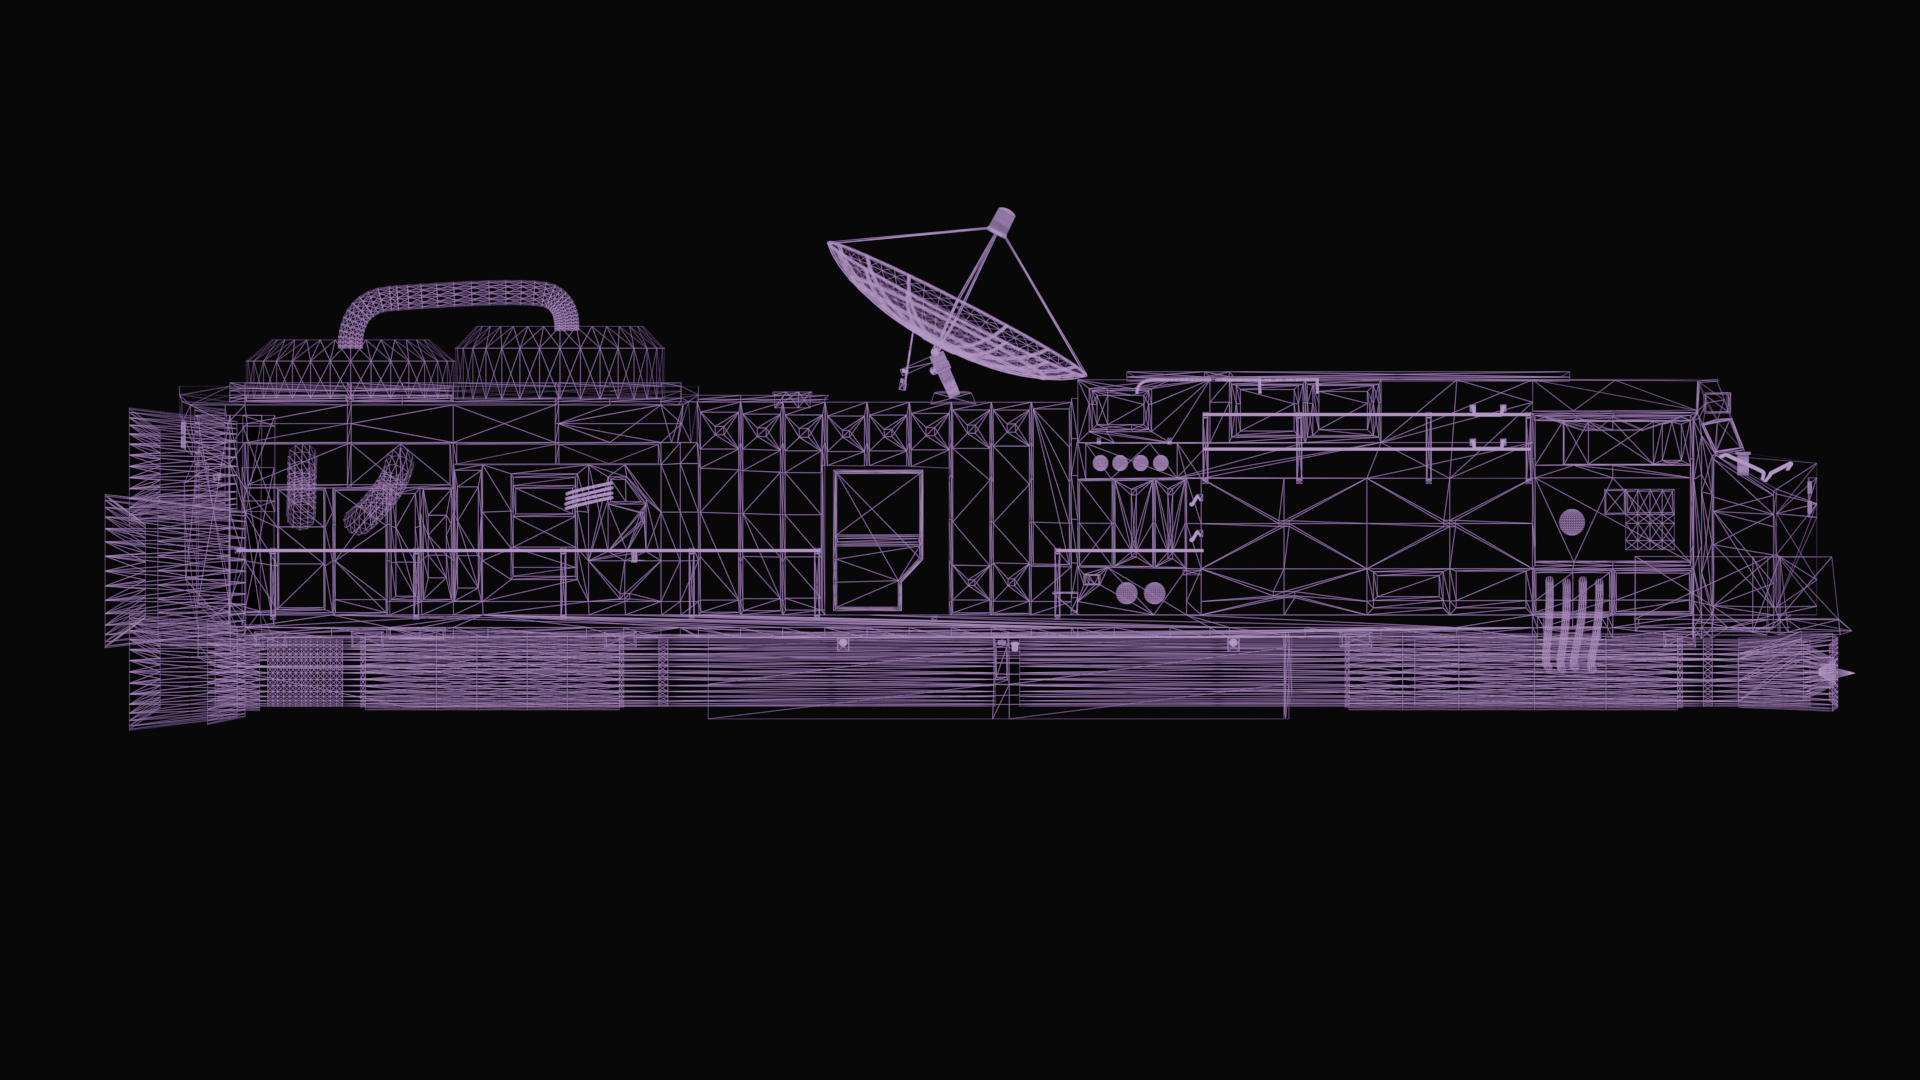
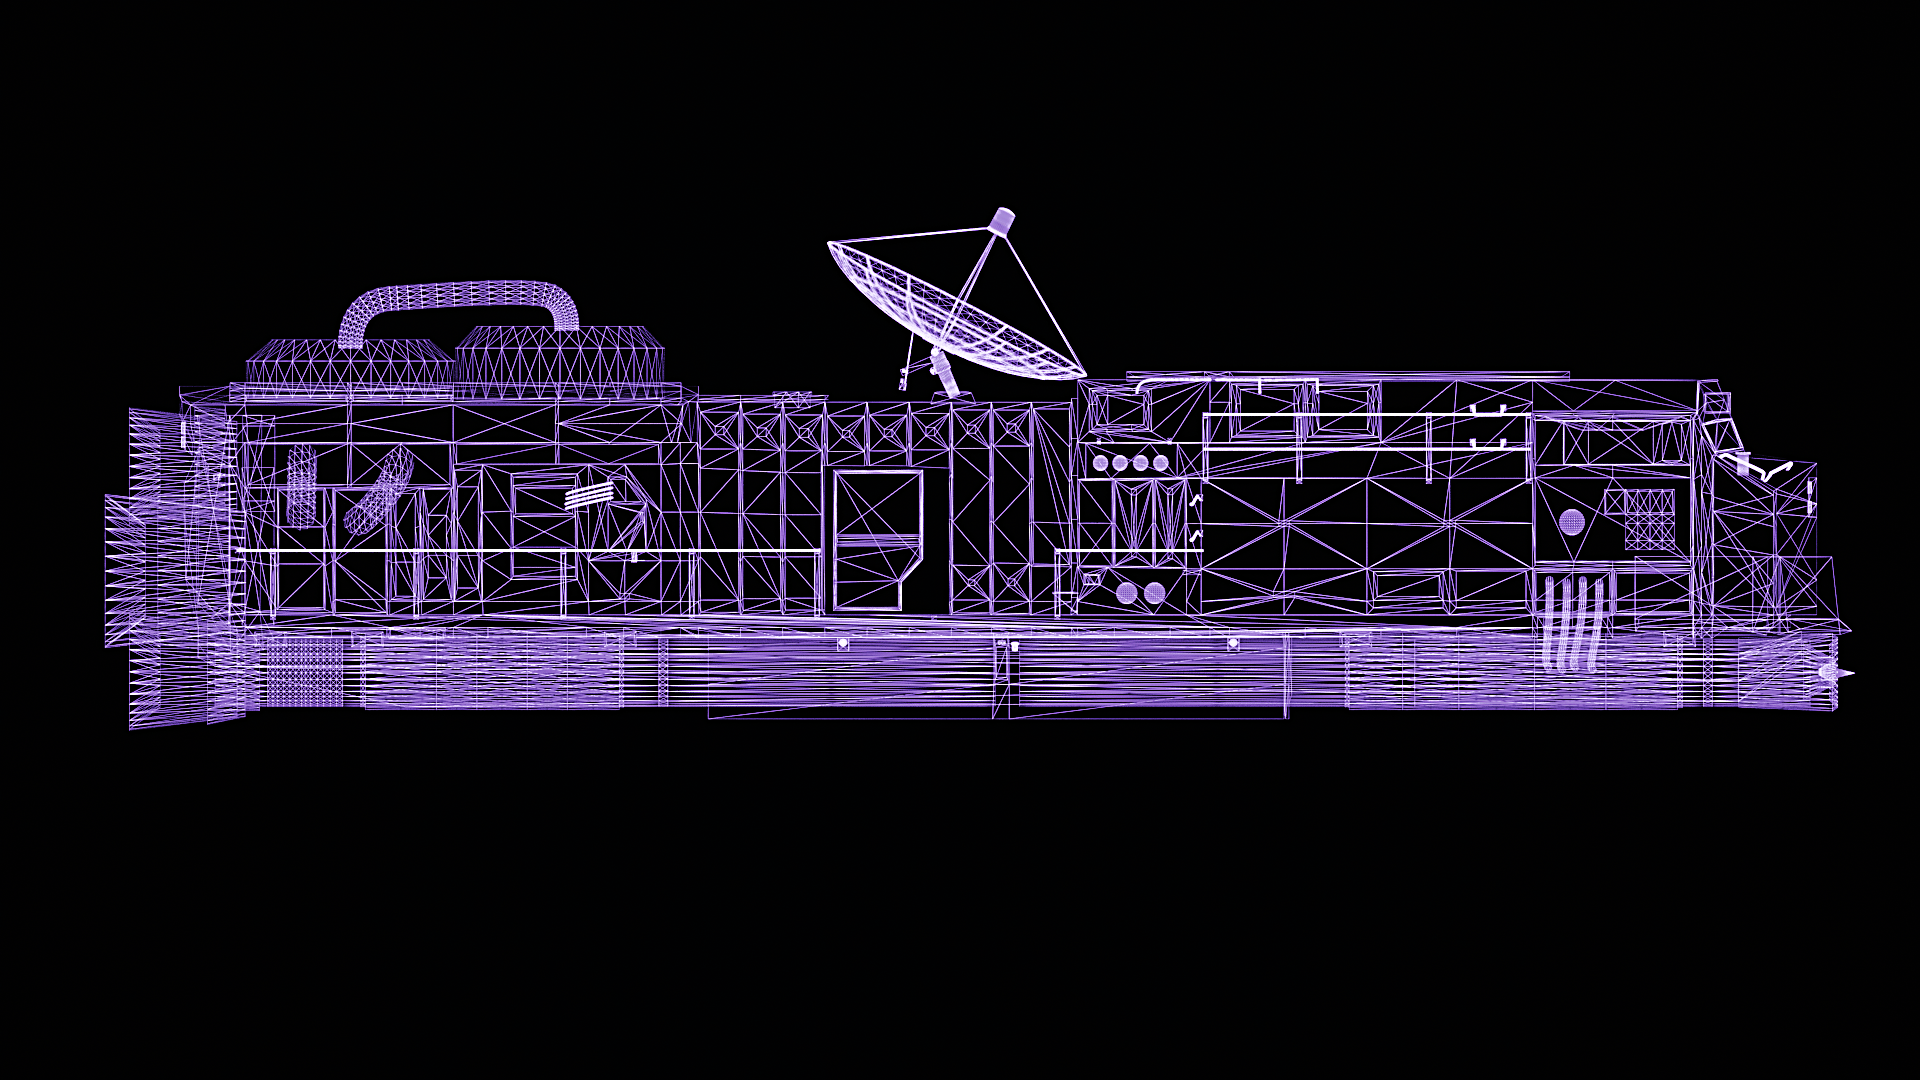
Fixes

Changed region(s): [[0.0312, 0.1833, 0.9688, 0.6722]]

diff --git a/src/components/Landing.jsx b/src/components/Landing.jsx
@@ -14,10 +14,13 @@ const pointsOfInterest = [
     { id: 1, x: '20%', y: '52%', tab: 'Move', title: 'Move', text: 'Move using [W] and [S] when inside the train', image: '/Landing/Walk.png' },
     { id: 2, x: '55%', y: '48%', tab: 'Interact', title: 'Interact', text: 'Interactable objects are highlighted when hovered', image: '/Landing/Interact.png' },
     { id: 3, x: '70%', y: '50%', tab: 'Explore', title: 'Explore', text: 'Discover details about me', image: '/Landing/Find.png' },
-    { id: 4, x: '85%', y: '45%', tab: 'Find', title: 'Find', text: 'Enter the train to explore its secrets', image: '/Landing/Explore.png' },
+    { id: 4, x: '85%', y: '45%', tab: 'Find', title: 'Find', text: 'Uncover the secrets hidden in the train', image: '/Landing/Explore.png' },
 ];
 
 const TABS = ['Move', 'Interact', 'Explore', 'Find'];
+const tabButtonBaseClass = 'tab-button w-full h-full border-2 transition-all duration-300 flex items-end justify-start bg-[var(--container-background)] rounded shadow-lg shadow-white/5';
+const tabActiveClass = 'border-[var(--selection-color)] text-[var(--selection-color)] button-glow tab-button--active';
+const tabInactiveClass = 'text-white border-white hover:border-[var(--selection-color)] hover:text-[var(--selection-color)]';
 
 // Hook to get window width for mobile detection
 const useWindowWidth = () => {
@@ -173,9 +176,26 @@ const Landing = () => {
                         {/* Cell 2,1: Tabs Area (Desktop) / Order 3 (Mobile) */}
                         <div className={`${isMobile ? 'order-3' : 'w-[75%] h-full'}`}>
                             <div className={`w-full h-full grid ${isMobile ? 'grid-cols-2' : 'grid-cols-4'}`} style={{ gap: responsiveGap }}>
-                                {TABS.map(tab => (
-                                    <button key={tab} onClick={() => handleTabClick(tab)} className={`w-full h-full border-2 transition-all duration-300 flex items-end justify-start bg-[var(--container-background)] rounded shadow-lg shadow-white/5 ${activeTab === tab ? 'border-[var(--selection-color)] text-[var(--selection-color)] button-glow' : 'text-white border-white hover:border-[var(--selection-color)] hover:text-[var(--selection-color)]'}`} style={{fontSize: isMobile ? '1rem' : '2.2cqi', padding: isMobile ? '1rem' : '0.8cqi', minHeight: isMobile ? '80px' : 'auto', borderTopWidth: activeTab === tab ? (isMobile ? '4px' : '0.55cqi') : '2px',}}><span className="leading-none">{tab}</span></button>
-                                ))}
+                                {TABS.map(tab => {
+                                    const isActive = activeTab === tab;
+                                    return (
+                                        <button
+                                            key={tab}
+                                            type="button"
+                                            onClick={() => handleTabClick(tab)}
+                                            aria-pressed={isActive}
+                                            className={`${tabButtonBaseClass} ${isActive ? tabActiveClass : tabInactiveClass}`}
+                                            style={{
+                                                fontSize: isMobile ? '1rem' : '2.2cqi',
+                                                padding: isMobile ? '1rem' : '0.8cqi',
+                                                minHeight: isMobile ? '80px' : 'auto',
+                                                borderTopWidth: isActive ? (isMobile ? '4px' : '0.55cqi') : '2px',
+                                            }}
+                                        >
+                                            <span className="leading-none">{tab}</span>
+                                        </button>
+                                    );
+                                })}
                             </div>
                         </div>
                         {/* Cell 2,2: Initiate Button Area (Desktop) / Order 2 (Mobile) */}

diff --git a/src/components/Point.css b/src/components/Point.css
@@ -2,9 +2,9 @@
 
 .point {
     position: absolute;
-    /* Use cqi for all sizes to make the points scale with the container */
-    width: 1.95cqi;
-    height: 1.95cqi;
+    /* Slightly larger node for clarity */
+    width: 2.6cqi;
+    height: 2.6cqi;
     background-color: transparent;
     border: none;
     cursor: pointer;
@@ -17,19 +17,21 @@
 .point::before {
     content: '';
     display: block;
-    width: 0.55cqi;
-    height: 0.55cqi;
+    width: 0.9cqi;
+    height: 0.9cqi;
     background-color: white;
     border-radius: 50%;
-    transition: background-color 0.2s ease-in-out, transform 0.2s ease-in-out;
-    box-shadow: 0 0 0.35cqi white;
+    transition: background-color 0.25s ease, transform 0.25s ease, box-shadow 0.35s ease;
+    box-shadow: 0 0 0.6cqi rgba(255, 255, 255, 0.9);
+    animation: point-breathe 2.2s ease-in-out infinite;
 }
 
 .point:hover::before,
 .point.selected::before {
     background-color: var(--selection-color);
-    box-shadow: 0 0 0.55cqi var(--selection-color), 0 0 1cqi var(--selection-color);
-    transform: scale(1.2);
+    box-shadow: 0 0 0.9cqi rgba(189, 149, 221, 0.95), 0 0 1.6cqi rgba(189, 149, 221, 0.6);
+    transform: scale(1.25);
+    animation-duration: 1.7s;
 }
 
 .corners {
@@ -51,8 +53,8 @@
 
 .corner {
     position: absolute;
-    width: 0.55cqi;
-    height: 0.55cqi;
+    width: 0.75cqi;
+    height: 0.75cqi;
     border-style: solid;
     border-color: var(--accent-color);
     border-width: 0.14cqi;
@@ -84,4 +86,15 @@
     right: 0;
     border-left: none;
     border-top: none;
+}
+
+@keyframes point-breathe {
+    0%, 100% {
+        transform: scale(1);
+        box-shadow: 0 0 0.6cqi rgba(255, 255, 255, 0.9);
+    }
+    50% {
+        transform: scale(1.12);
+        box-shadow: 0 0 1.35cqi rgba(189, 149, 221, 0.65);
+    }
 }

diff --git a/src/store/useTrainStore.js b/src/store/useTrainStore.js
@@ -58,10 +58,12 @@ const useTrainStore = create((set, get) => ({
         
         controls.minDistance = 0;
 
+        set({ isTransitioning: true }); // Start transition, but keep exterior visible
+
         const tl = gsap.timeline({
             onComplete: () => {
                 get().enableFreeRoamControls(controls);
-                set({ isTransitioning: false }); // End transition
+                set({ inTrain: true, isTransitioning: false }); // Now inside, hide exterior and end transition
             }
         });
 
@@ -93,8 +95,6 @@ const useTrainStore = create((set, get) => ({
             ease: 'power2.inOut',
         }, 1.2);
 
-        set({ inTrain: true, isTransitioning: true }); // Show interior immediately and start transition
-
     },
 
     /**
@@ -112,7 +112,7 @@ const useTrainStore = create((set, get) => ({
         gsap.to(camera.position, {
             duration: 2,
             x: targetTer.x,
-            y: targetTer.y + 0.05,
+            y: targetTer.y + 0.03,
             z: targetTer.z - 0.1,
             ease: 'power3.inOut',
         });
@@ -120,7 +120,7 @@ const useTrainStore = create((set, get) => ({
         gsap.to(controls.target, {
             duration: 2,
             x: targetTer.x,
-            y: targetTer.y + 0.05,
+            y: targetTer.y + 0.03,
             z: targetTer.z,
             ease: 'power3.inOut',
             onComplete: () => {

diff --git a/src/components/Experience/Experience.jsx b/src/components/Experience/Experience.jsx
@@ -14,7 +14,14 @@ const Experience = () => {
             ]}
         >
             <div className="w-screen h-screen">
-                <Canvas shadows>
+                <Canvas
+                    shadows
+                    camera={{
+                        position: [-3, 2, 5], // Start slightly left and above for a more cinematic angle
+                        near: 0.01,
+                        far: 2000,
+                    }}
+                >
                     <Suspense fallback={null}>
                         <OrbitControls
                             makeDefault
@@ -22,7 +29,7 @@ const Experience = () => {
                             minAzimuthAngle={-2.3}
                             maxAzimuthAngle={0}
                             maxDistance={9}
-                            minDistance={0}
+                            minDistance={3} // cap zoom-in so the camera cannot clip the train
                             maxPolarAngle={1.7}
                         />
                         <SpaceBox />

diff --git a/src/index.css b/src/index.css
@@ -49,6 +49,27 @@
     box-shadow: 0 0 15px 3px var(--glow-color);
   }
 
+  .tab-button {
+    cursor: pointer;
+    transition: border-color 0.2s ease, color 0.2s ease, box-shadow 0.3s ease, transform 0.25s ease;
+  }
+
+  .tab-button:focus-visible {
+    outline: 2px solid var(--selection-color);
+    outline-offset: 3px;
+  }
+
+  .tab-button.tab-button--active {
+    box-shadow: 0 0 18px 5px rgba(189, 149, 221, 0.55);
+  }
+
+  .tab-button:not(.tab-button--active):hover:not(:disabled) {
+    border-color: var(--selection-color);
+    color: var(--selection-color);
+    transform: translateY(-0.15cqi);
+    box-shadow: 0 0 12px 3px rgba(189, 149, 221, 0.45);
+  }
+
   /* New styles for points and popups */
   .point {
     position: absolute;

diff --git a/src/components/Experience/Train.jsx b/src/components/Experience/Train.jsx
@@ -66,7 +66,7 @@ export default function Train(props) {
 
         if (forward && pos.z > -60) {
             let targetY = pos.y;
-            if (pos.z <= -30 && pos.z >= -45) {
+            if (pos.z <= -35 && pos.z >= -45) {
                 targetY -= 0.17;
             }
             gsap.to(pos, { duration: 0.2, z: pos.z - 0.4, y: targetY });
@@ -74,7 +74,7 @@ export default function Train(props) {
 
         if (backward && pos.z < 32) {
             let targetY = pos.y;
-            if (pos.z <= -30 && pos.z >= -45) {
+            if (pos.z <= -35 && pos.z >= -45) {
                 targetY += 0.17;
             }
             gsap.to(pos, { duration: 0.2, z: pos.z + 0.4, y: targetY });
